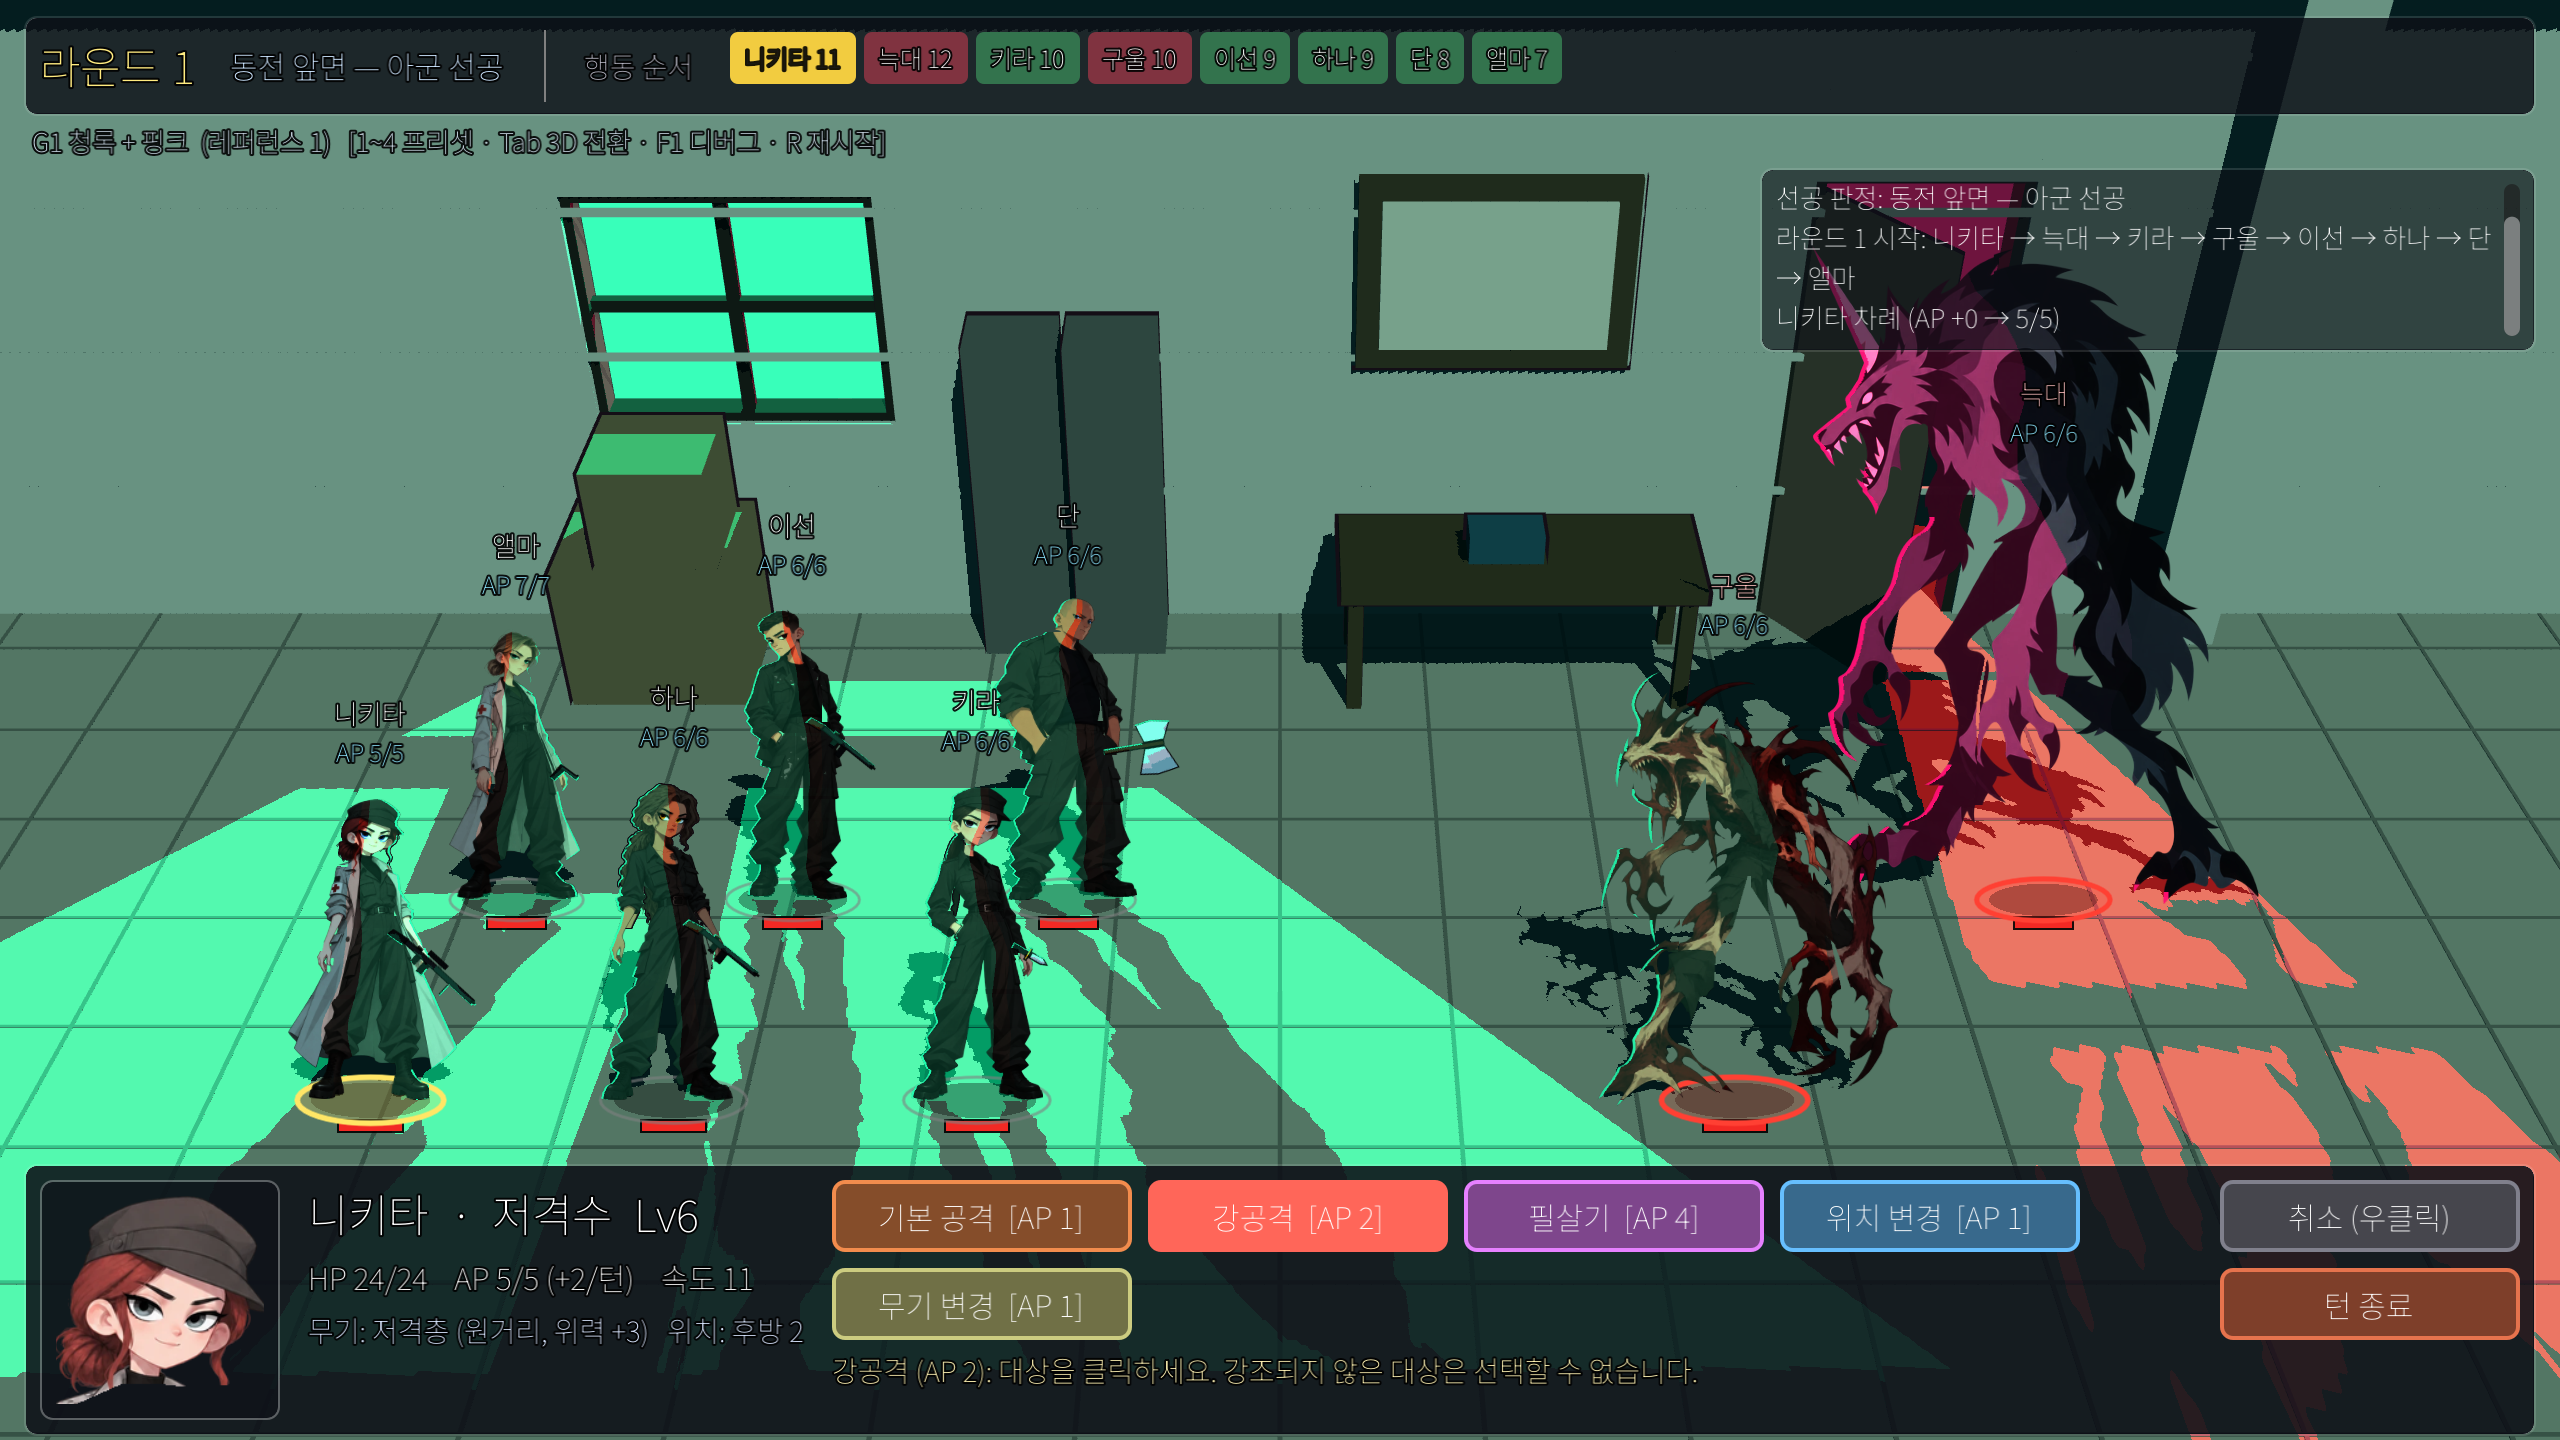
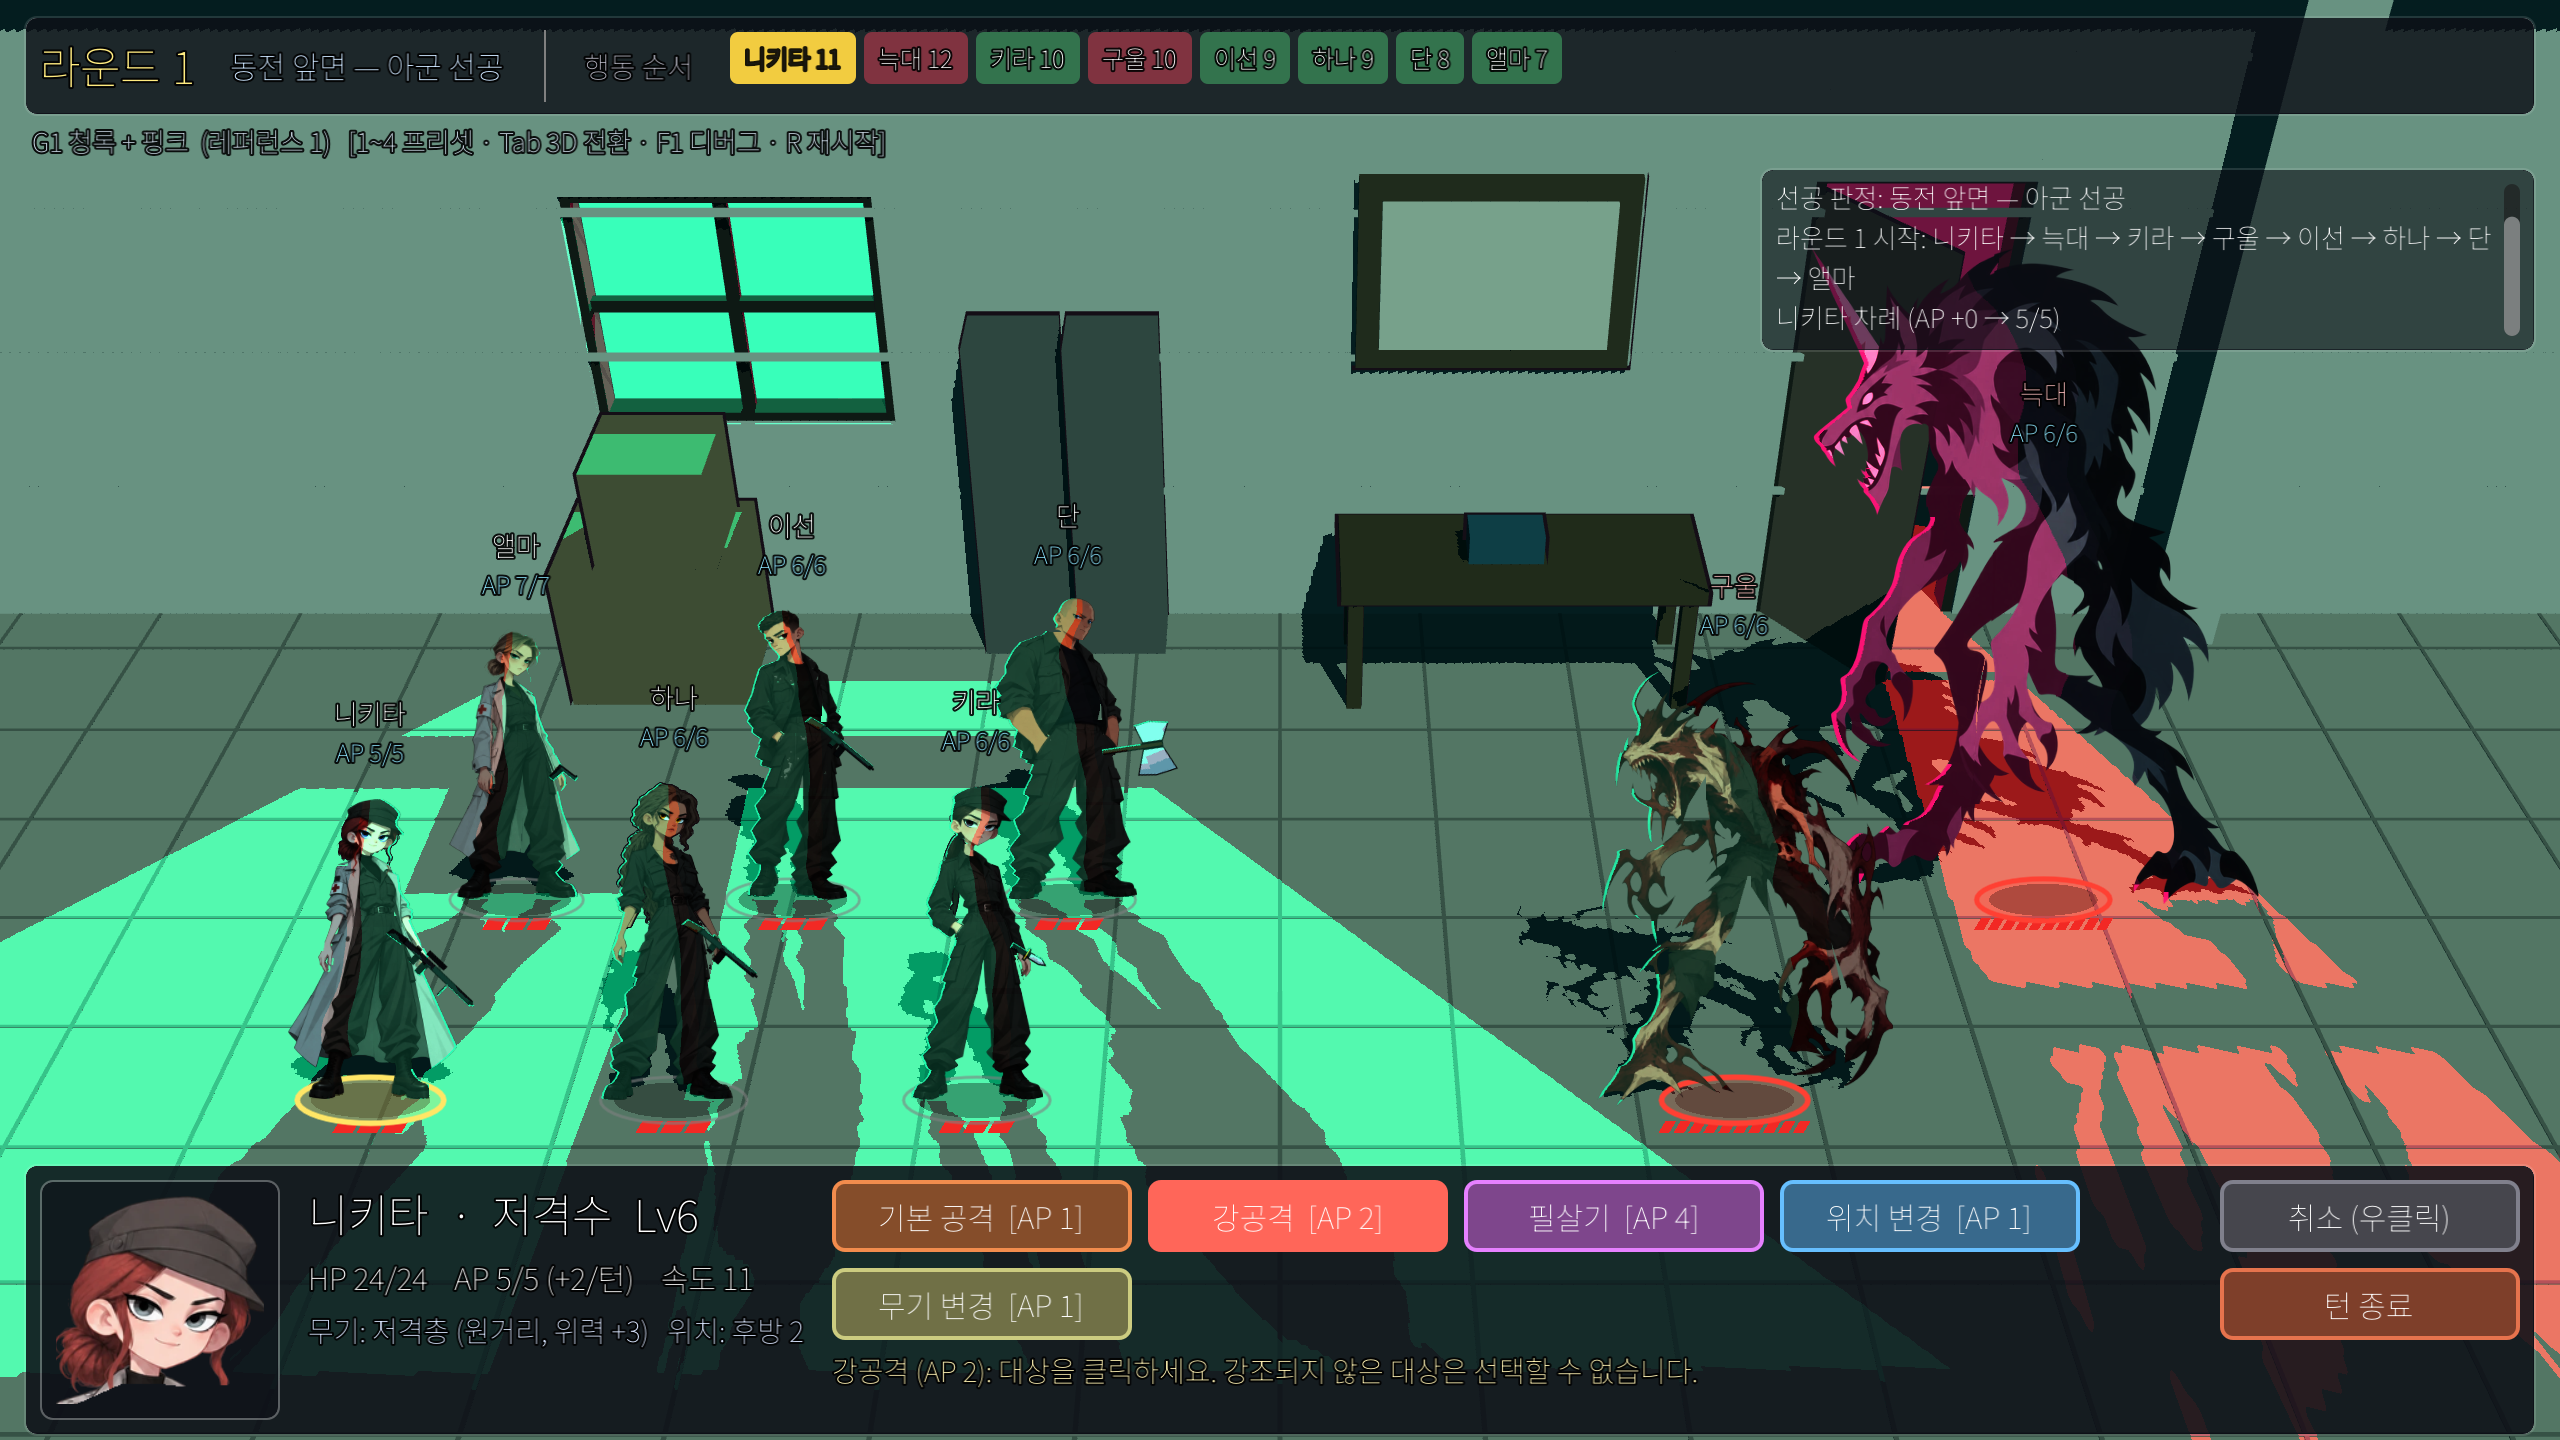
체력 표시를 외곽선 없는 평행사변형 칸으로: 아군 3칸, 적 10칸
- 발밑에 짧은 평행사변형 칸을 나란히 그림 (빈 칸은 어두운 붉은색, 찬 칸은 붉은색)
- 체력 비율만큼 칸이 차고, 걸친 칸은 일부만 참

Claude-Session: https://claude.ai/code/session_014aytw3hj7boqn3SZ5GP5ti

diff --git a/docs/design/00_decision_log_v1_0.md b/docs/design/00_decision_log_v1_0.md
@@ -26,7 +26,7 @@
 - 큰 몸집 규칙: 한 유닛이 같은 줄(index)의 연속한 두 열을 차지할 수 있다 (`row_span`). 살아 있는 동안 두 열 모두에 있는 것으로 보아
   전방을 막고(근접 대상), 자리 이동·교환 불가, 쓰러지면 두 칸 모두 빈다. 화면에서는 두 칸의 가운데에 선다.
   앨마 = 금갈색 올림머리·밝은 회색 롱코트(적십자 완장, 의무병), 이선 = 짧은 갈색 머리·짙은 재킷(양손 주머니), 단 = 민머리·큰 체격·소매 걷은 재킷(양손 주머니).
-- 체력 바는 **캐릭터 발밑의 짧은 가로 바**, **모두 붉은색**. 캐릭터를 가리지 않도록 월드 안에서 모든 캐릭터보다 아래 층에 그림. 이름·AP 는 머리 위 유지 (2026-10-25).
+- 체력 표시는 **캐릭터 발밑의 짧은 평행사변형 칸**, 외곽선 없음, 모두 붉은색: **아군 3칸, 적 10칸**. 체력 비율만큼 칸이 차고 걸친 칸은 일부만 참. 캐릭터보다 아래 층에 그려 캐릭터를 가리지 않음. 이름·AP 는 머리 위 유지 (2026-10-25).
 - 줌인 중에도 주변 캐릭터를 **투명하게 하지 않음** (전투 불능도 어둡게만, 불투명).
 - 바닥 그림자는 **캐릭터 모양** (원화 실루엣을 3D 판으로 세워 실제 광원으로 드리움). 캡슐 그림자 폐기.
 
